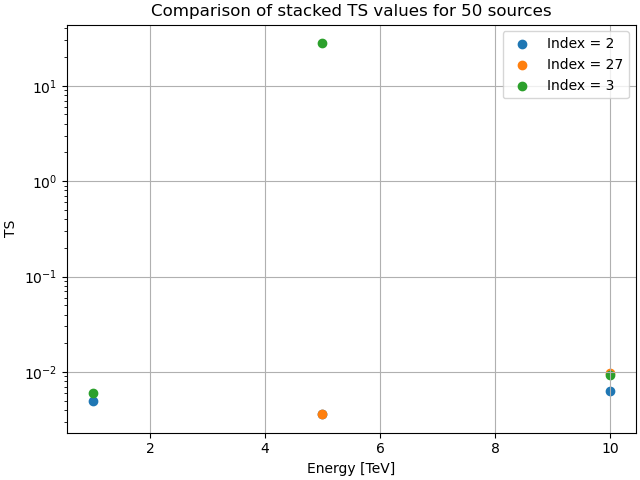
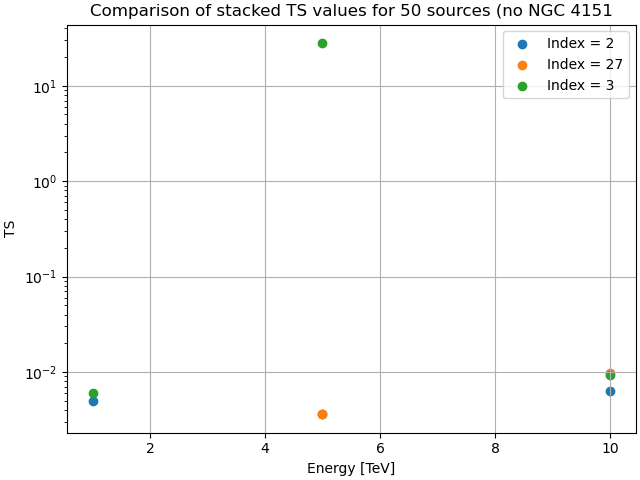
full

Changed region(s): [[0.125, 0.0, 0.9688, 0.0312]]

diff --git a/ptSource-ind3-14-195keV/plot_ts_pivot.py b/ptSource-ind3-14-195keV/plot_ts_pivot.py
@@ -15,7 +15,7 @@ c = cm.tab10(range(len(ix)))
 
 for ind in ix:
     ts_values = []
-    with open("results-stacked-ind%s-50sources.csv"%(ind),newline="") as f:
+    with open("results-stacked-ind%s.csv"%(ind),newline="") as f:
         reader = csv.DictReader(f)
         for row in reader:
             ts_values.append(float(row['TS']))
@@ -31,6 +31,6 @@ plt.ylabel("TS")
 plt.yscale('log')
 plt.legend()
 plt.grid()
-plt.title("Comparison of stacked TS values for 50 sources")
-plt.savefig("ts_comp_no_ngc4151_logy.png")
+plt.title("Comparison of stacked TS values for 51 sources (full sourcelist")
+plt.savefig("ts_comp.png")
 plt.close()
